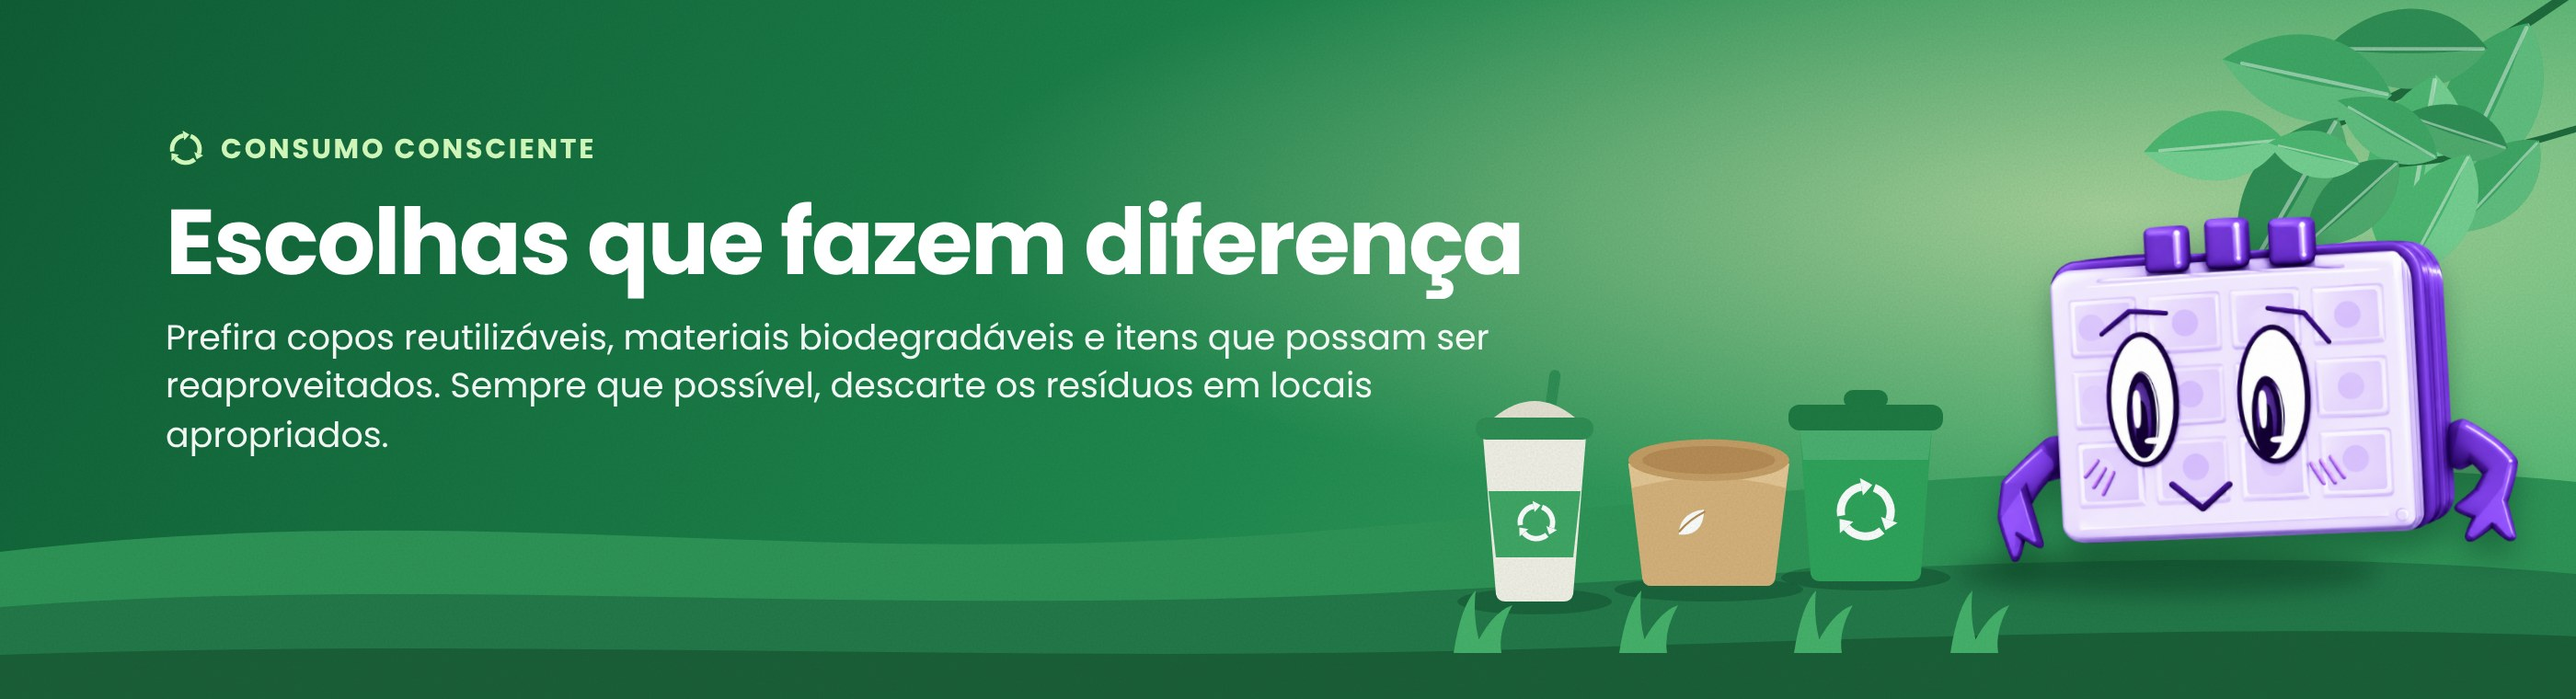
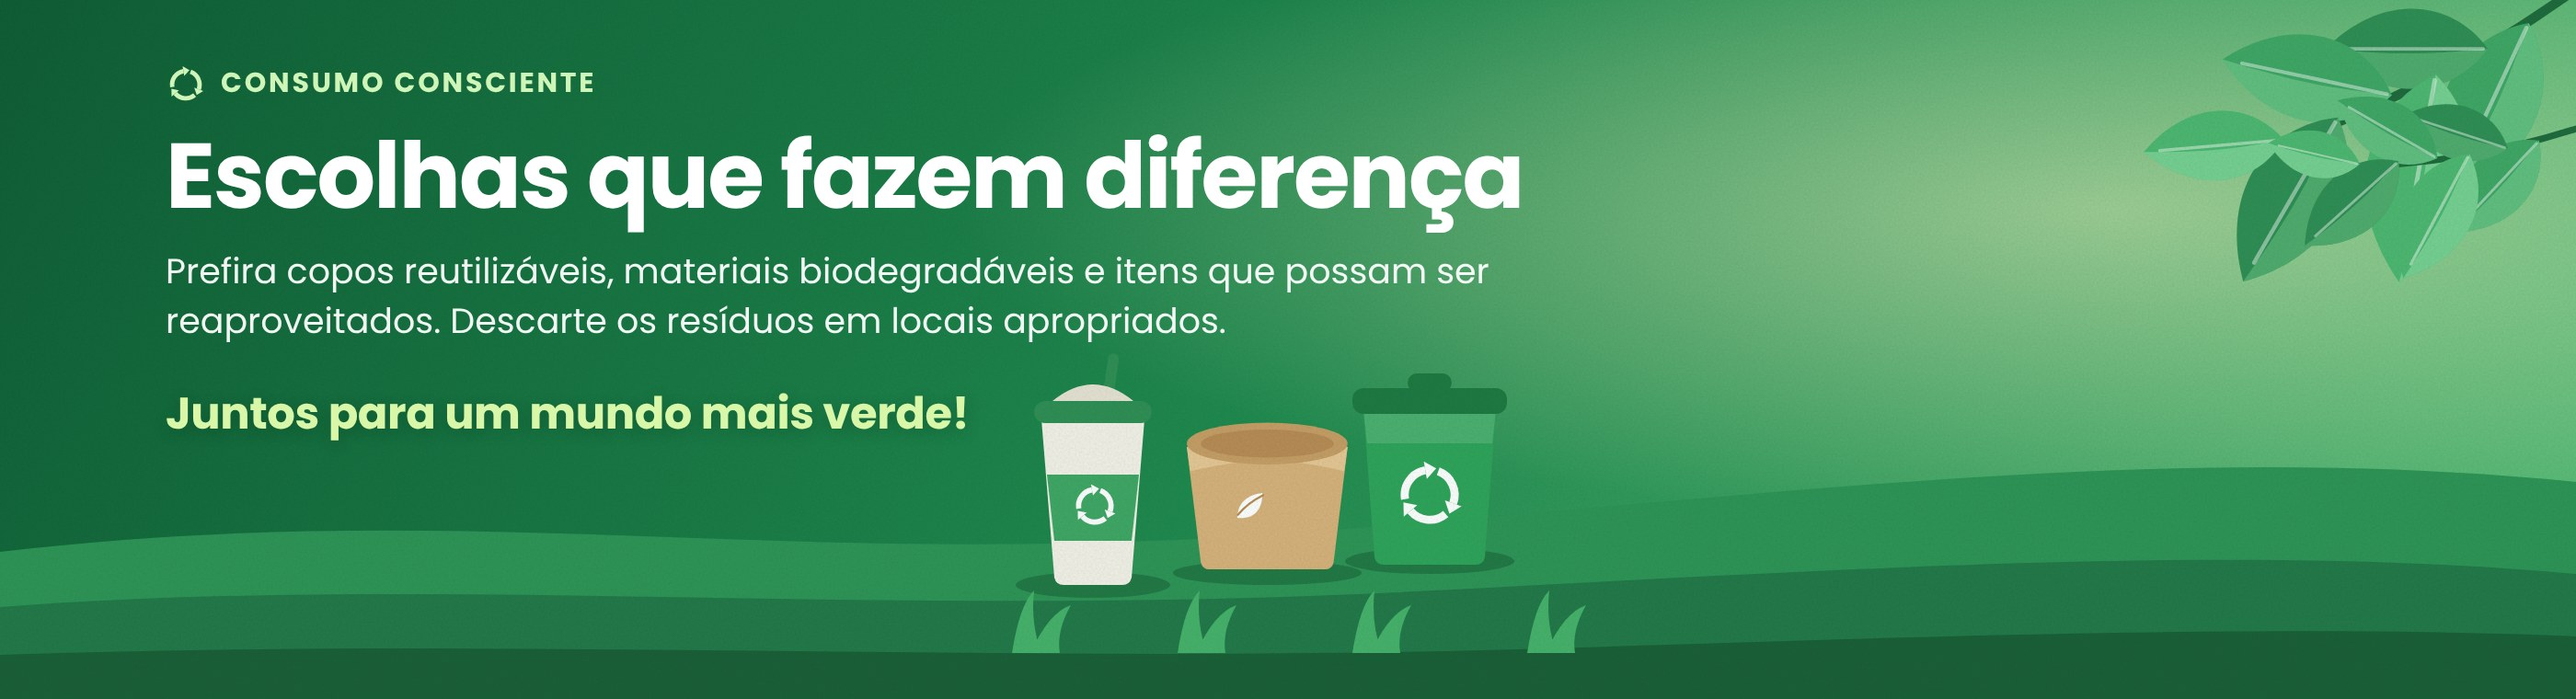
ajustes

diff --git a/js/bannersInicio.js b/js/bannersInicio.js
@@ -3,6 +3,11 @@
    ---------------------------------------------------------------------
    Regras:
    - O banner de "Bem-vindo(a)" é sempre o primeiro e não sai daqui.
+   - O Nexus (mascote flutuante) dos banners novos é o MESMO do banner de
+     boas-vindas: mesma animação, tamanho e posição (canto direito). Por isso
+     a imagem deve ser feita SEM o Nexus e com o lado direito livre para ele
+     (PC: não colocar nada importante a partir de 900 px da esquerda;
+     celular: a partir de 430 px da esquerda, na arte de 700 px).
    - Dá para adicionar até 2 banners novos (no máximo 3 no total, contando
      com o de boas-vindas). Se escrever mais de 2, só os 2 primeiros valem.
    - Um banner novo só entra se tiver uma imagem (e se ela abrir). Sem
@@ -25,7 +30,7 @@ var BANNERS_NOVOS = [
        Formatos: JPG, PNG ou WebP, até ~300 KB cada.
        "imagem"        -> obrigatória (versão para PC; também serve no celular
                           se não houver "imagemCelular", mas as laterais são cortadas)
-       "imagemCelular" -> opcional (versão própria para telas até 768 px)
+       "imagemCelular" -> opcional (versão própria para telas até 480 px, celular)
        "descricao"     -> texto para leitores de tela (acessibilidade)
        "link"          -> opcional: endereço que abre ao tocar no banner
        Exemplo: imagem: "fotos/banner-natal.jpg"
@@ -35,7 +40,7 @@ var BANNERS_NOVOS = [
     /* ---- BANNER 3 ---------------------------------------------------
        Mesmas medidas do banner 2: PC 1400 x 380 px, celular 700 x 330 px.
        ------------------------------------------------------------------ */
-    { imagem: "fotos/banner-consumo-consciente-pc.jpg", imagemCelular: "fotos/banner-consumo-consciente-celular.jpg", descricao: "Consumo consciente: prefira copos reutilizáveis, materiais biodegradáveis e itens reaproveitáveis, e descarte os resíduos em locais apropriados", link: "" }
+    { imagem: "fotos/banner-consumo-consciente-pc.jpg", imagemCelular: "fotos/banner-consumo-consciente-celular.jpg", descricao: "Consumo consciente: prefira copos reutilizáveis, materiais biodegradáveis e itens reaproveitáveis, e descarte os resíduos em locais apropriados. Juntos para um mundo mais verde!", link: "" }
 ];
 
 var BANNERS_MAXIMO_NOVOS = 2;      // limite: 3 no total (1 de boas-vindas + 2 novos)
@@ -79,7 +84,7 @@ var BANNERS_INTERVALO_MS = 5000;   // tempo de cada banner (5 segundos)
         var estilo = document.createElement("style");
         estilo.textContent =
             ".banner[hidden]{display:none!important}" +
-            ".banner.banner-extra::before,.banner.banner-extra::after{display:none}" +
+            ".banner.banner-extra::before{display:none}" +
             ".banner.banner-extra a,.banner.banner-extra picture{position:absolute;inset:0;display:block}" +
             ".banner.banner-extra img{position:absolute;inset:0;width:100%;height:100%;object-fit:cover;opacity:1;z-index:0;transform:none;animation:none}" +
             ".banner.banner-entra{animation:bannerEntra .55s ease}" +
@@ -102,7 +107,7 @@ var BANNERS_INTERVALO_MS = 5000;   // tempo de cada banner (5 segundos)
             var pic = document.createElement("picture");
             if (b.imagemCelular && String(b.imagemCelular).trim()) {
                 var src = document.createElement("source");
-                src.media = "(max-width: 768px)";
+                src.media = "(max-width: 480px)";
                 src.srcset = String(b.imagemCelular).trim();
                 pic.appendChild(src);
             }
